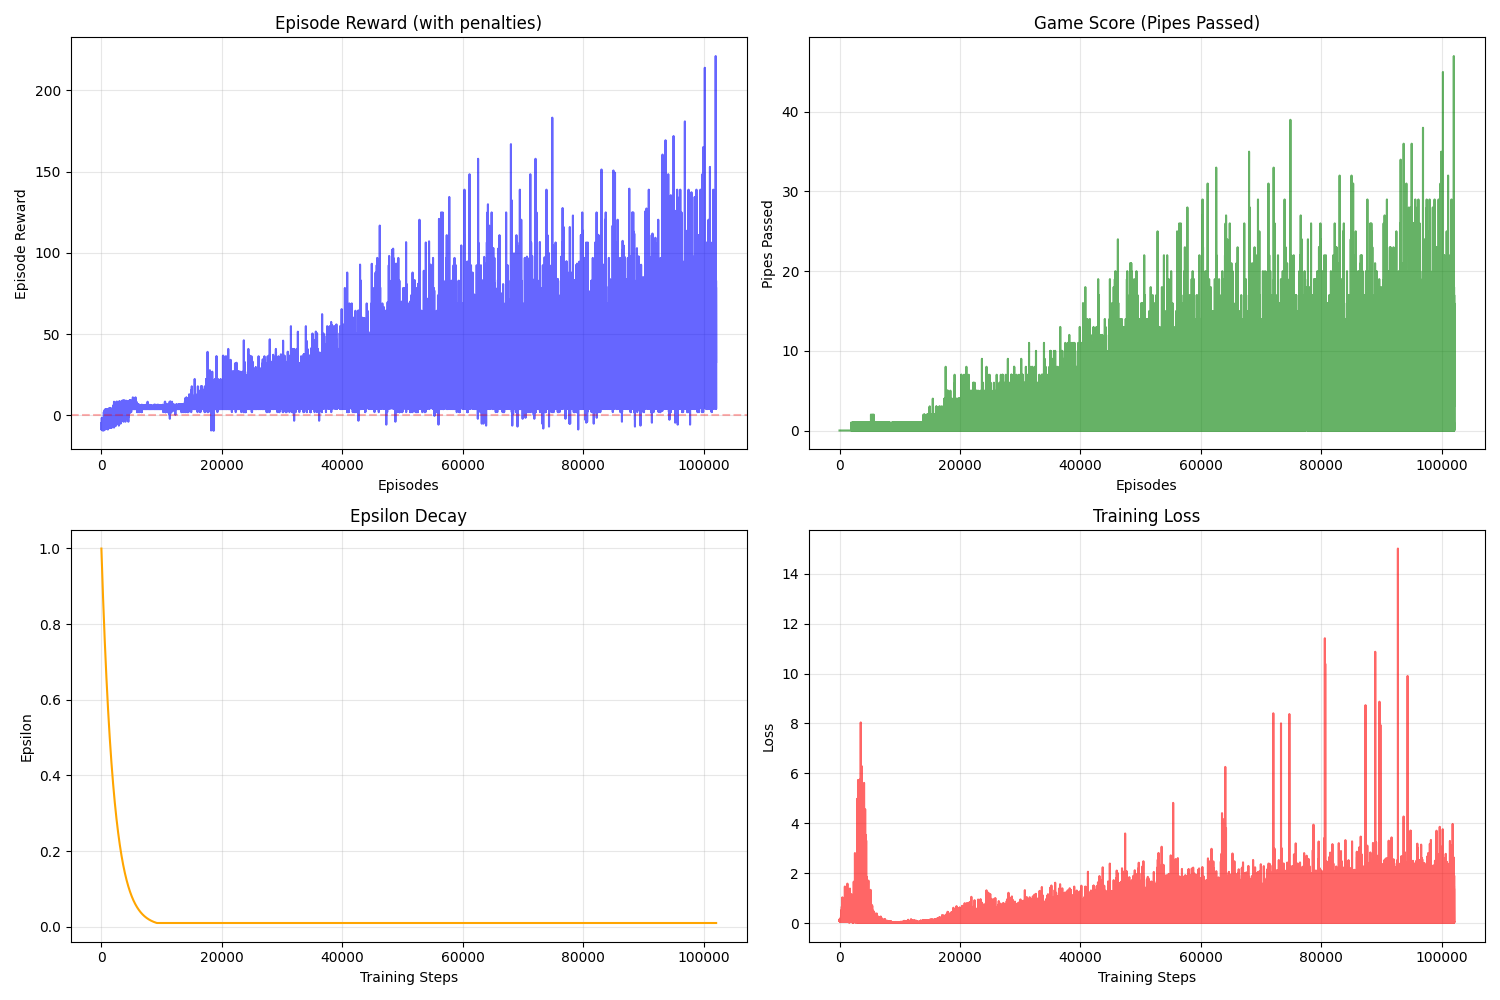
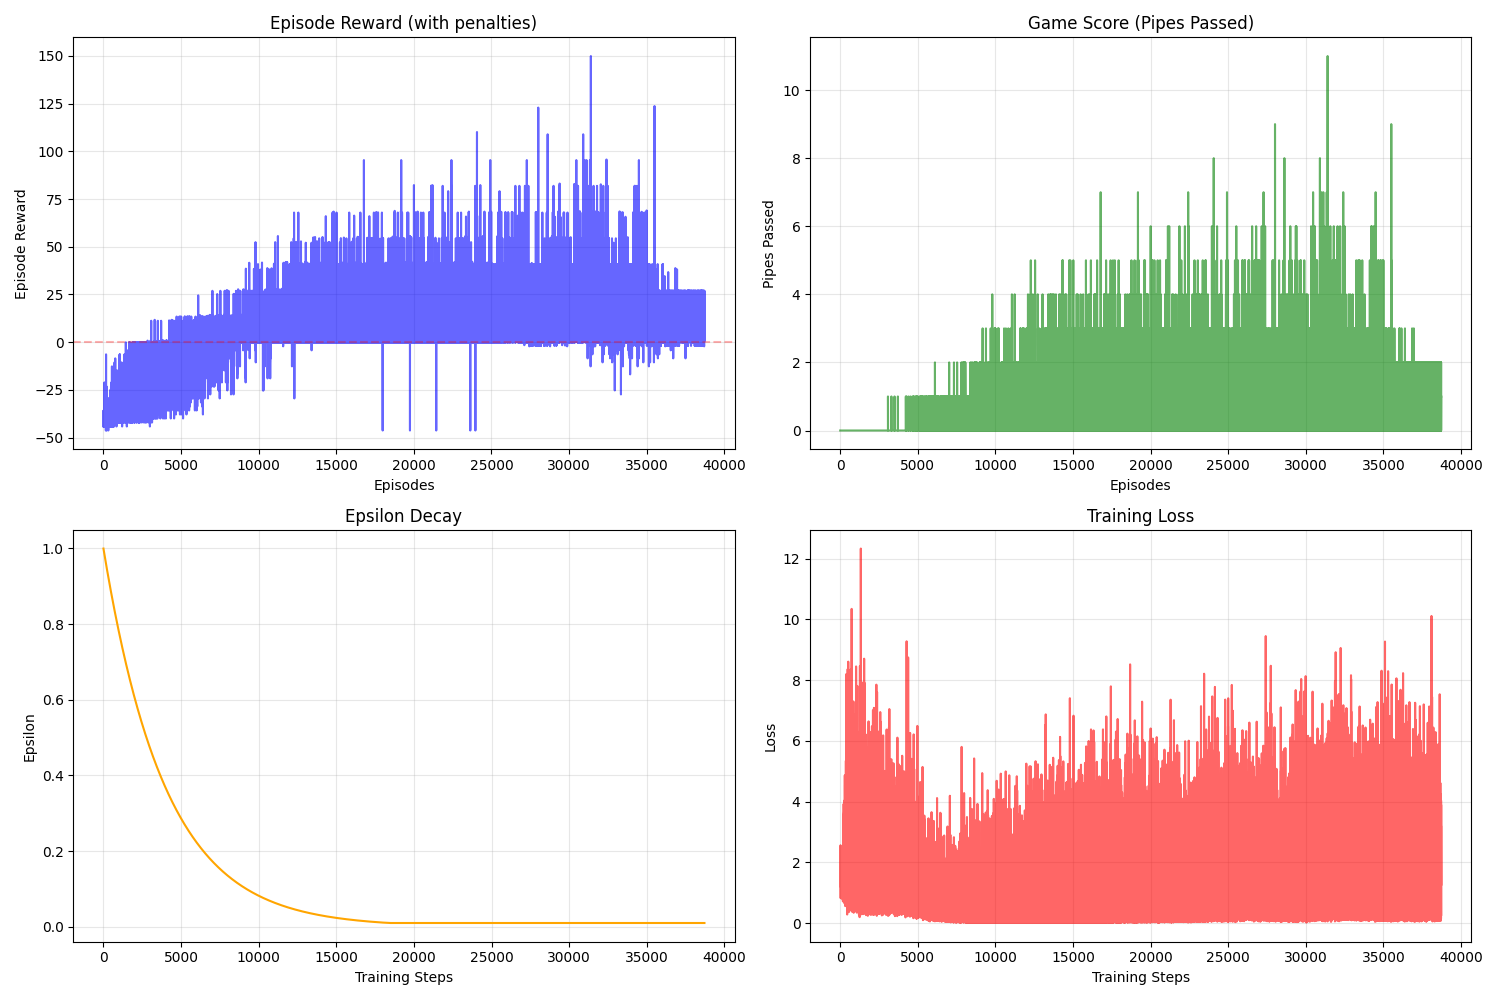
u

diff --git a/reward_shaping.py b/reward_shaping.py
@@ -11,76 +11,46 @@ class FlappyBirdRewardShaping(gym.Wrapper):
         super().__init__(env)
         self.last_score = 0
         self.frames_alive = 0
-        self.last_horizontal_distance = None
         
     def reset(self, **kwargs):
         """Reset khi bắt đầu episode mới"""
         self.last_score = 0
         self.frames_alive = 0
-        self.last_horizontal_distance = None
         obs, info = self.env.reset(**kwargs)
         return obs, info
     
     def step(self, action):
         """Thực hiện action và reshape reward"""
-        obs, reward, terminated, truncated, info = self.env.step(action)
+        obs, reward, terminated, truncated, info = self. env.step(action)
         
-        # Lưu reward gốc để debug
         original_reward = reward
         shaped_reward = 0.0
         
         # ===== 1.  REWARD CHO VƯỢT ỐNG =====
-        # Thưởng RẤT LỚN khi vượt ống (động lực chính)
-        if reward >= 1.0:  # Vượt ống
-            shaped_reward += 15.0  # Tăng từ 1. 0 → 15.0
-            self. last_score += 1
+        # ĐỘNG LỰC CHÍNH - thưởng lớn
+        if reward >= 1.0:  
+            shaped_reward += 10.0  # GIẢM từ 15 → 10
+            self.last_score += 1
             
         # ===== 2.  REWARD CHO SỐNG SÓT =====
-        # Thưởng cho việc sống lâu (nhưng không quá nhiều)
-        elif reward > 0 and reward < 1.0:  # Frame reward (+0.1)
+        # Thưởng nhỏ cho mỗi frame còn sống
+        elif reward > 0 and reward < 1.0:  
             self.frames_alive += 1
             shaped_reward += 0.1  # Giữ nguyên
             
-            # Bonus nhỏ nếu sống lâu
-            if self.frames_alive % 50 == 0:  # Mỗi 50 frames
-                shaped_reward += 0.5
-                
-        # ===== 3. PENALTY KHI CHẾT =====
-        elif reward <= -0.5:  # Chết hoặc chạm trần
+        # ===== 3.  PENALTY KHI CHẾT =====
+        elif reward <= -0.5:  
             if reward == -1.0:  # Chết (va chạm)
-                shaped_reward = -10.0  # Tăng penalty từ -1.0 → -10.0
+                # GIẢM PENALTY - không khắc nghiệt quá
+                shaped_reward = -5.0  # GIẢM từ -10 → -5
                 
-                # Penalty NẶNG hơn nếu chết sớm (chưa vượt ống nào)
-                if self.last_score == 0:
-                    shaped_reward -= 5.0  # Tổng -15.0
-                    
-                # Penalty nhẹ hơn nếu đã vượt nhiều ống
-                elif self.  last_score >= 5:
-                    shaped_reward += 2.0  # Giảm penalty: -8.0
+                # Penalty thêm nếu chết quá sớm
+                if self.frames_alive < 20:  # Chết trong 20 frames đầu
+                    shaped_reward -= 3.0  # Tổng -8
                     
             elif reward == -0.5:  # Chạm trần
-                shaped_reward = -3.0  # Tăng penalty từ -0. 5 → -3.0
+                shaped_reward = -2.0  # GIẢM từ -3 → -2
         
-        # ===== 4. REWARD DỰA TRÊN VỊ TRÍ (OPTIONAL - NÂNG CAO) =====
-        # Thưởng nếu bird ở vị trí tốt (gần giữa màn hình)
-        # Observation: [bird_y, bird_velocity, pipe_horizontal_distance, pipe_top_y, pipe_bottom_y, ...]
-        if len(obs) >= 5:
-            bird_y = obs[0]
-            pipe_top_y = obs[3] if len(obs) > 3 else 0
-            pipe_bottom_y = obs[4] if len(obs) > 4 else 1
-            
-            # Tính vị trí lý tưởng (giữa 2 ống)
-            pipe_center_y = (pipe_top_y + pipe_bottom_y) / 2
-            distance_to_center = abs(bird_y - pipe_center_y)
-            
-            # Thưởng nhỏ nếu bird gần vị trí lý tưởng
-            if distance_to_center < 0.1:
-                shaped_reward += 0.2
-            elif distance_to_center < 0.2:
-                shaped_reward += 0.1
-        
-        # Debug: In ra để kiểm tra (comment out sau khi test)
-        # if terminated or shaped_reward > 1:
-        #     print(f"Original: {original_reward:.1f} → Shaped: {shaped_reward:.1f}, Score: {self.last_score}, Frames: {self.frames_alive}")
+        # XÓA PHẦN POSITION REWARD (dòng 64-80) - gây nhiễu! 
         
         return obs, shaped_reward, terminated, truncated, info

diff --git a/agent.py b/agent.py
@@ -82,7 +82,11 @@ class Agent():
 
         # Create instance of the environment.
         # Use "**self.env_make_params" to pass in environment-specific parameters from hyperparameters.yml.
-        env = gym.make(self.env_id, render_mode='human' if render else None, **self.env_make_params)
+        #env = gym.make(self.env_id, render_mode='human' if render else None, **self.env_make_params)
+
+        #new environemnt reward
+        base_env = gym.make(self.env_id, render_mode='human' if render else None, **self.env_make_params)
+        env = FlappyBirdRewardShaping(base_env)  # ← ÁP DỤNG REWARD SHAPING
 
         # Number of possible actions
         num_actions = env.action_space.n
@@ -136,7 +140,7 @@ class Agent():
 
             terminated = False      # True when agent reaches goal or fails
             episode_reward = 0.0    # Used to accumulate rewards per episode
-            game_score = 0  # ← Track game score
+            #game_score = 0  # ← Track game score
 
             # Perform actions until episode terminates or reaches max rewards
             # (on some envs, it is possible for the agent to train to a point where it NEVER terminates, so stop on reward is necessary)
@@ -161,8 +165,9 @@ class Agent():
                 # Accumulate rewards
                 episode_reward += reward
 
-                if reward >= 1:  # ← Phát hiện vượt ống
-                    game_score += 1
+                #notify score
+                #if reward >= 1:
+                    #game_score += 1
 
                 # Convert new state and reward to tensors on device
                 new_state = torch.tensor(new_state, dtype=torch.float, device=device)
@@ -180,6 +185,7 @@ class Agent():
 
             # Keep track of the rewards collected per episode.
             rewards_per_episode.append(episode_reward)
+            game_score = env.last_score  # ← Lấy từ wrapper
             game_scores_per_episode.append(game_score) #luu điểm số trò chơi
 
             # Save model when new best reward is obtained.
